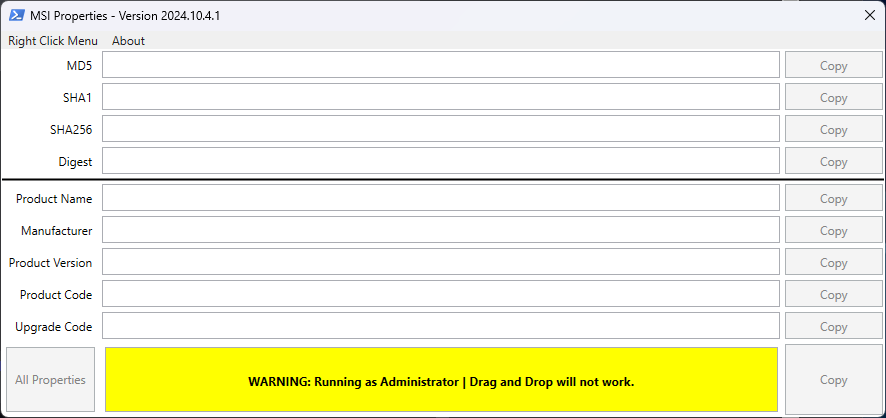
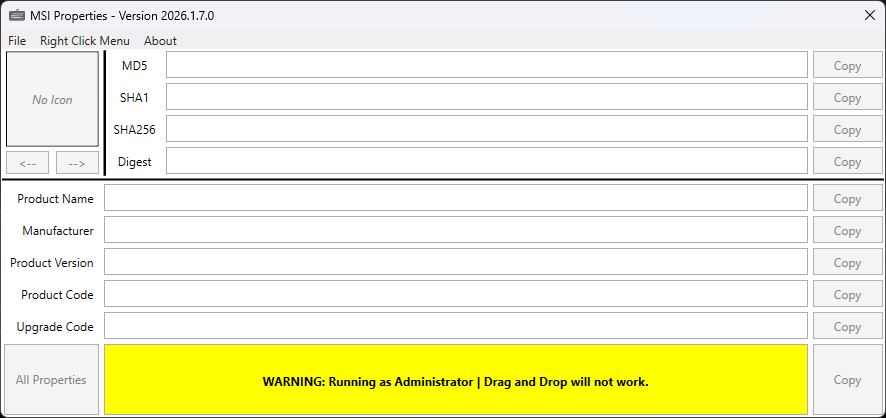
Update README.md with updated screenshots and features.

diff --git a/README.md b/README.md
@@ -14,6 +14,21 @@ iex (irm msiapp.michaeltheadmin.com)
 ```
  ![Invoke MSI Application](/Images/Application_Example_Run.png)
 
+## Icon Extraction
+If the MSI contains an icon, it will be extracted and displayed<br>
+![Icon Display](/Images/Application_IconDisplay_Single.png)
+
+If multiple icons are found, you can view each one using the navigation arrows<br>
+![Icon Display Multiple](/Images/Application_IconDisplay_Multiple.gif)
+
+### Export Icon
+Click the desired icon to Export<br>
+![Icon Export](/Images/Application_IconDisplay_Export.gif)
+
+### Export Quality
+Use PowerShell (pwsh.exe) to export higher quality icons, .NET 8+ has newer methods that make it eaisier to extract higher quality icons. You'll see the quality difference in the preview<br>
+![Icon Export Quality](/Images/Application_IconDisplay_Quality.png)
+
 ## Right-Click Context Menu Option
 Right-Click Context Menu Option to Lauch the app and automatically load the information<br>
 ![Right-Click Context Menu](/Images/Application_ContextMenu_OnFile.png)
@@ -25,6 +40,10 @@ Install the Context Menu Option from the menu bar<br>
 ### Uninstall the Context Menu Option
 Uninstall the Context Menu Option from the menu bar<br>
 ![Uninstall Context Menu](/Images/Application_ContextMenu_Uninstall.png)
+
+### Open the Folder of the Righ Click Menu
+Open the Folder that contains the script and icon files used for the Context Menu<br>
+![Open Context Menu Folder](/Images/Application_ContextMenu_OpenFolder.png)
 
 ### Example
 ![Context Menu Example](/Images/Application-ContextMenu-Gif.gif)
